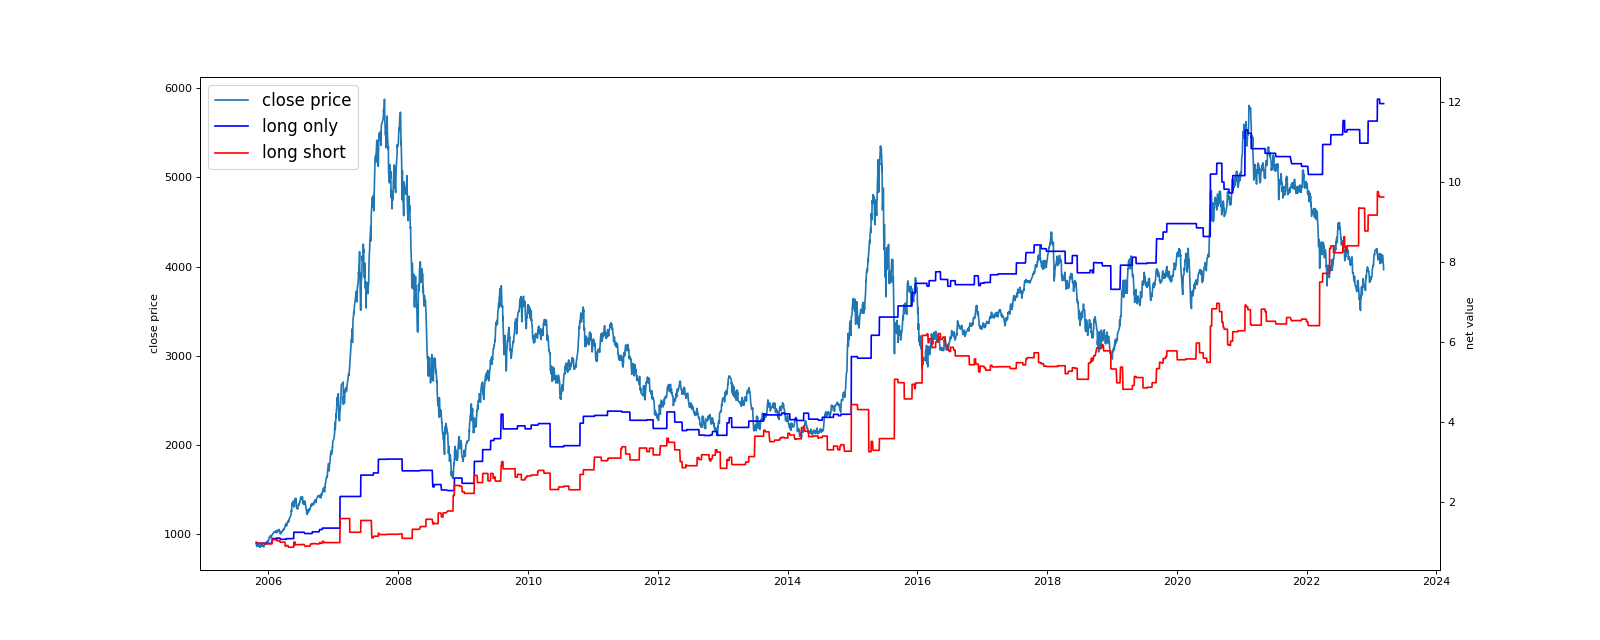
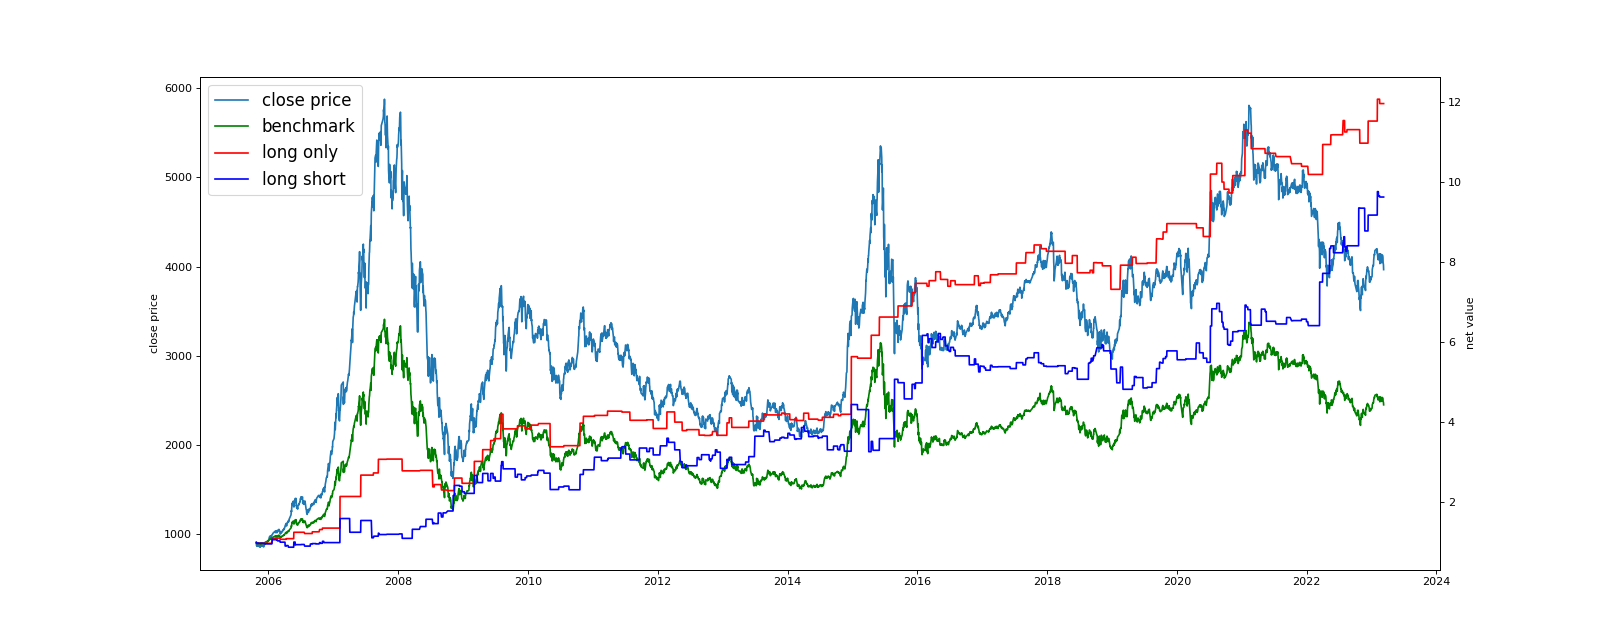
add benchmark

diff --git a/codes/getResults.py b/codes/getResults.py
@@ -52,12 +52,13 @@ def get_results(path_start, path_end, factor):
         
         #绘制另一Y轴    
         ax1 = ax.twinx()
-        lin2 = ax1.plot(df3.index, df3['net_value_long_only'], color='blue', label="long only")
-        lin3 = ax1.plot(df3.index, df3['net_value_long_short'], color="red", label="long short")
+        lin2 = ax1.plot(df3.index, df3['收盘']/df3.loc[df3.index[0], '收盘'], color='green', label="benchmark")
+        lin3 = ax1.plot(df3.index, df3['net_value_long_only'], color='red', label="long only")
+        lin4 = ax1.plot(df3.index, df3['net_value_long_short'], color="blue", label="long short")
         ax1.set_ylabel('net value')
         
         #合并图例
-        lins = lin1 + lin2 + lin3
+        lins = lin1 + lin2 + lin3 + lin4
         labs = [l.get_label() for l in lins]
         ax.legend(lins, labs, loc="upper left", fontsize=15)
         plt.savefig(path_end + '/' + file[:-12] + factor[:4] + '.png')
